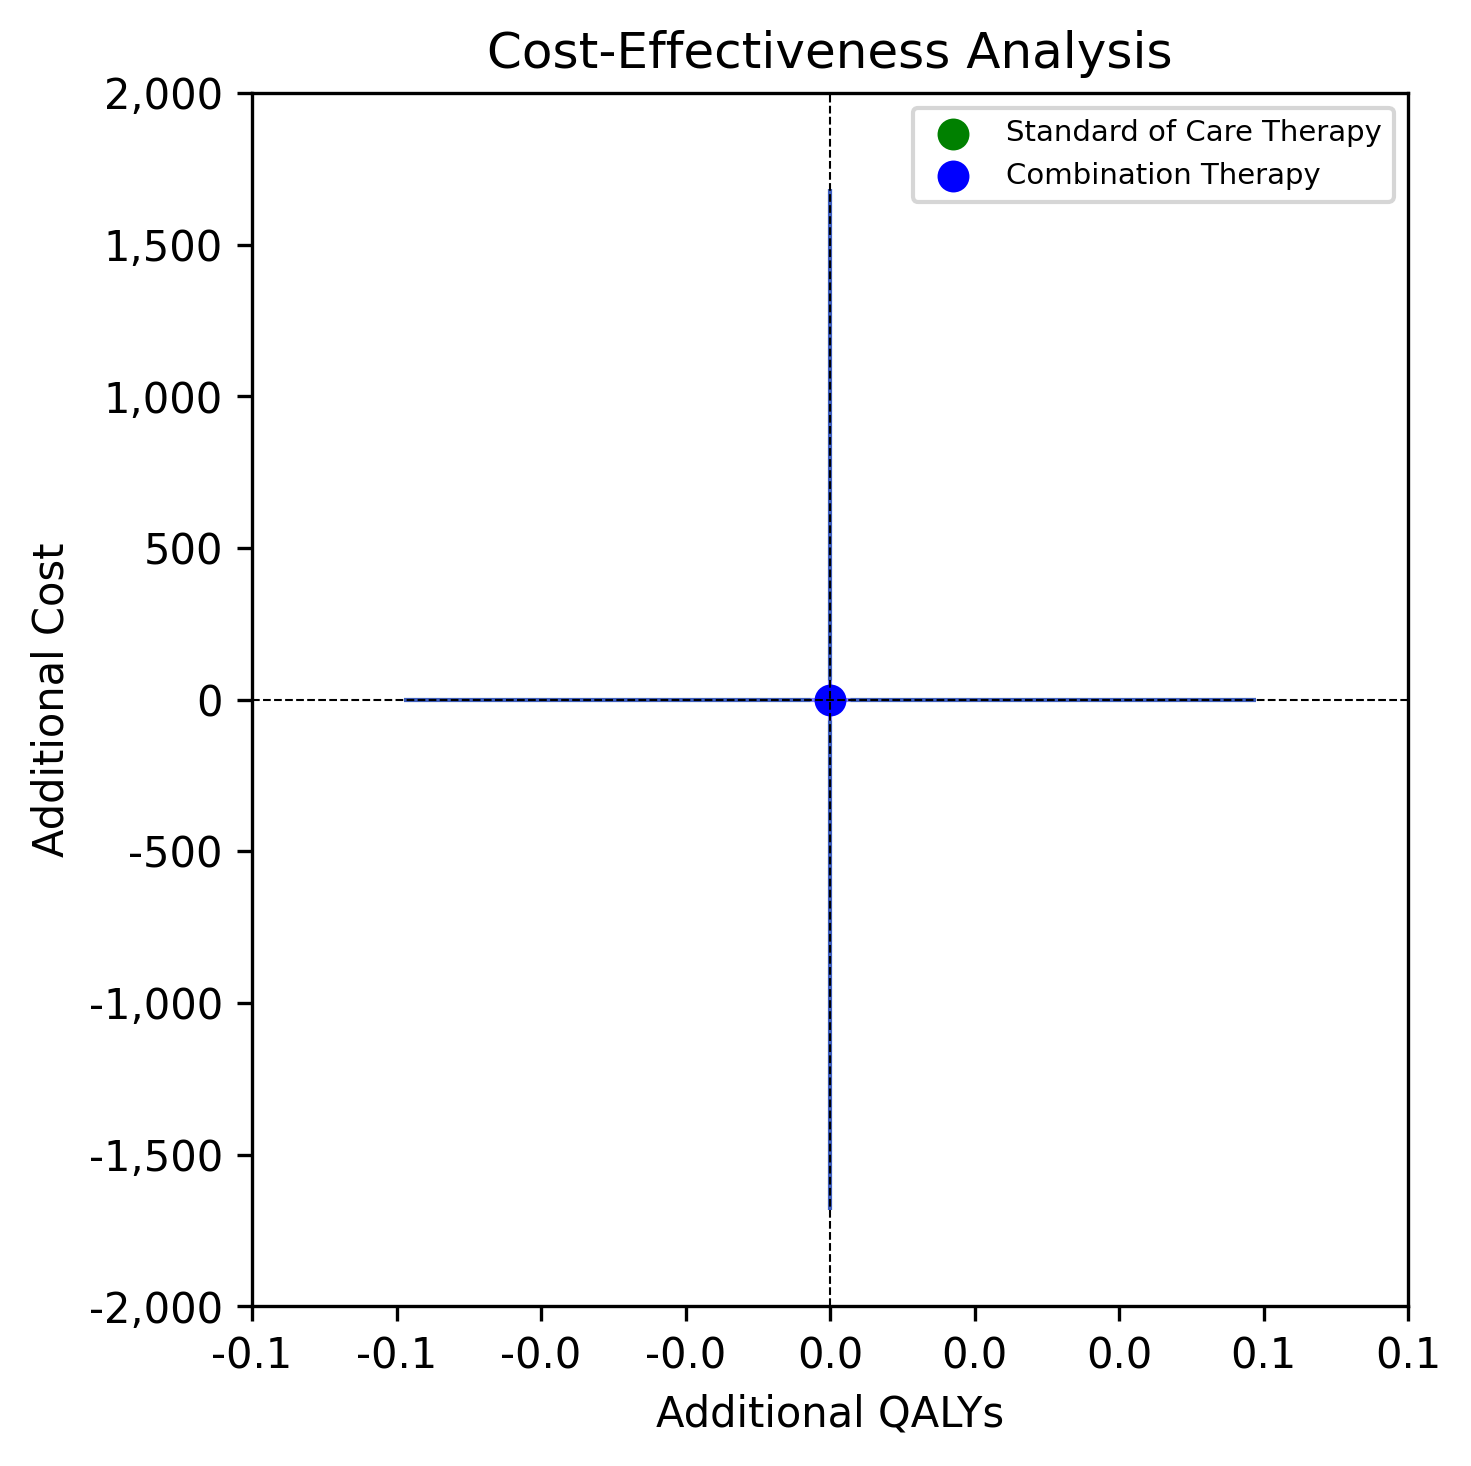
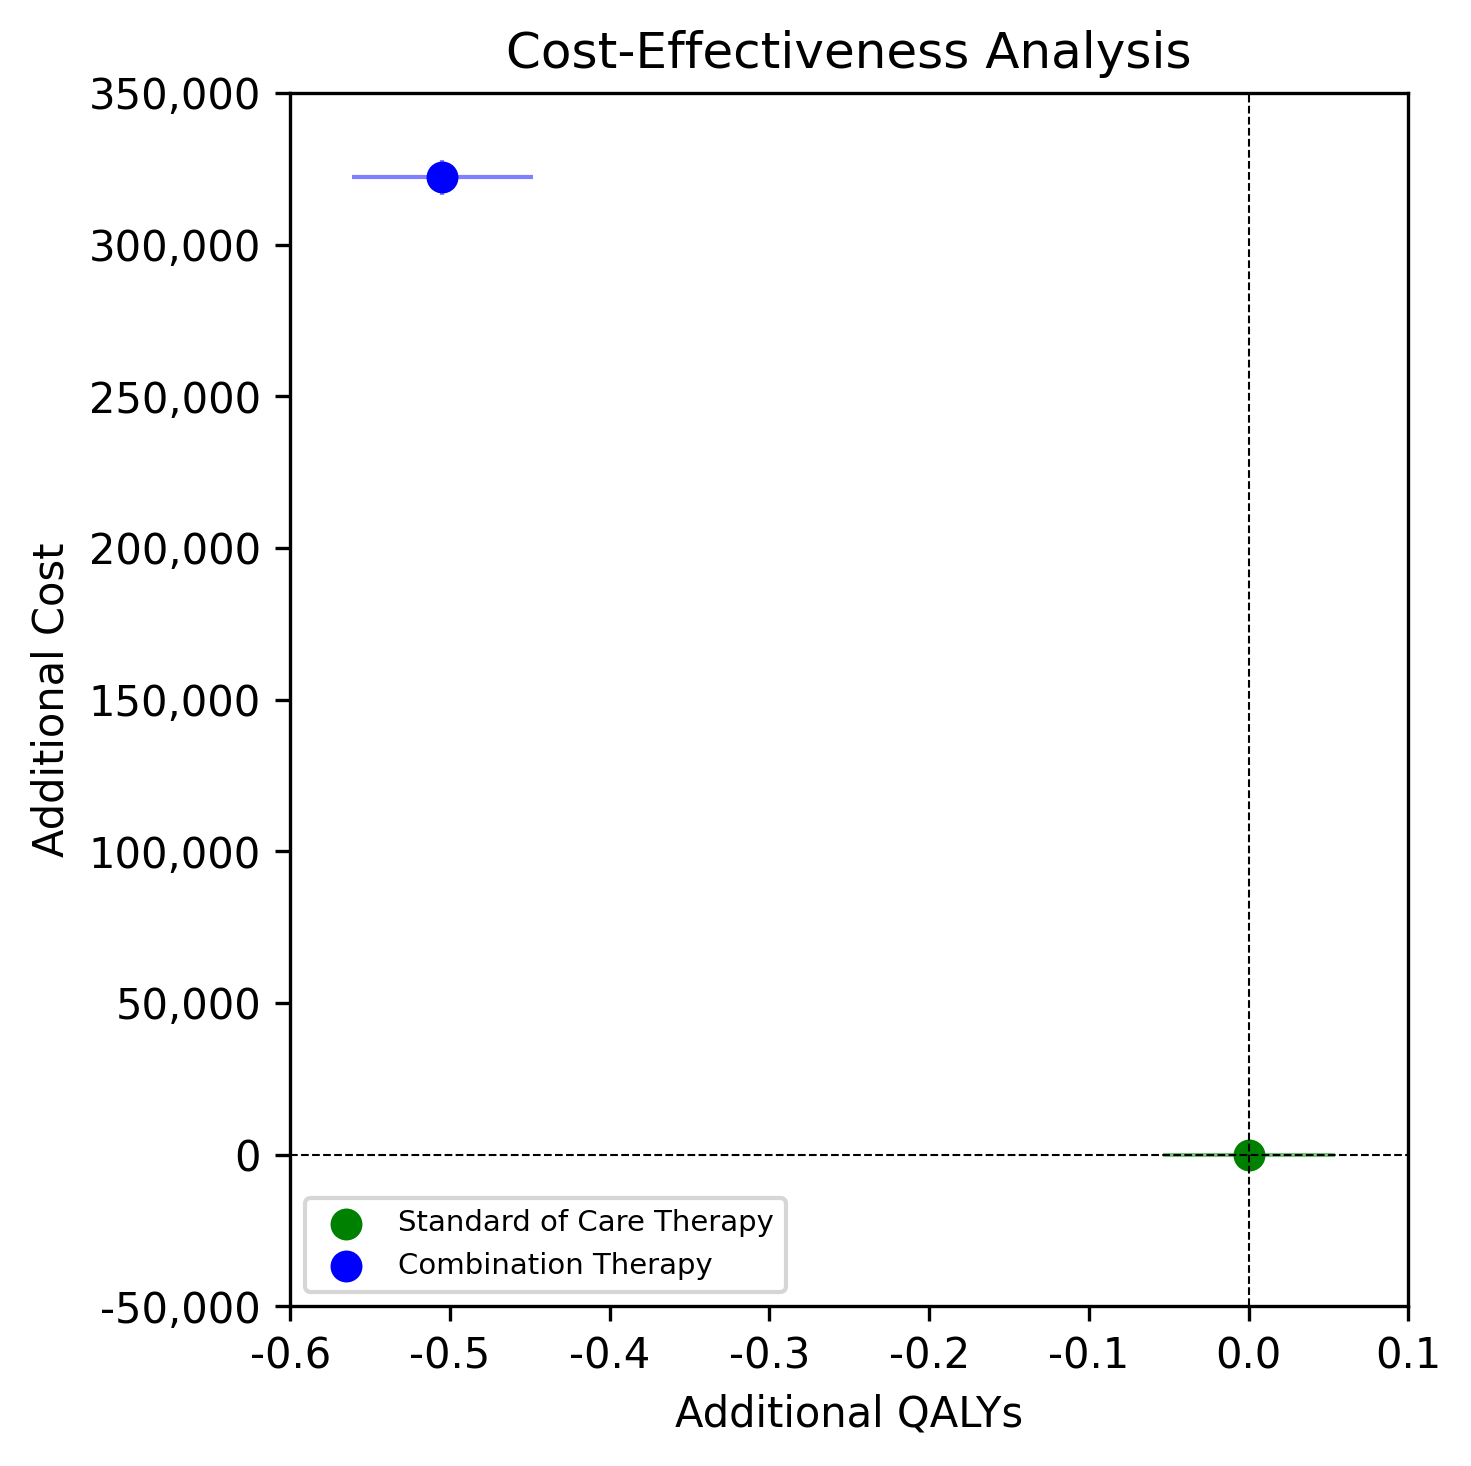
reverted to single cost for now

diff --git a/Support.py b/Support.py
@@ -94,7 +94,7 @@ def print_comparative_outcomes(sim_outcomes_soc, sim_outcomes_dmt):
     increase_survival_time = stat.DifferenceStatIndp(
         name='Increase in mean survival time',
         x=sim_outcomes_dmt.survivalTimes,
-        y_ref=sim_outcomes_.survivalTimes)
+        y_ref=sim_outcomes_soc.survivalTimes)
 
     # estimate and CI
     estimate_CI = increase_survival_time.get_formatted_mean_and_interval(
@@ -105,8 +105,8 @@ def print_comparative_outcomes(sim_outcomes_soc, sim_outcomes_dmt):
     # increase in mean discounted cost under combination therapy with respect to mono therapy
     increase_discounted_cost = stat.DifferenceStatIndp(
         name='Increase in mean discounted cost',
-        x=sim_outcomes_soc.costs,
-        y_ref=sim_outcomes_dmt.costs)
+        x=sim_outcomes_dmt.costs,
+        y_ref=sim_outcomes_soc.costs)
 
     # estimate and CI
     estimate_CI = increase_discounted_cost.get_formatted_mean_and_interval(
@@ -117,8 +117,8 @@ def print_comparative_outcomes(sim_outcomes_soc, sim_outcomes_dmt):
     # increase in mean discounted utility under combination therapy with respect to mono therapy
     increase_discounted_utility = stat.DifferenceStatIndp(
         name='Increase in mean discounted utility',
-        x=sim_outcomes_soc.utilities,
-        y_ref=sim_outcomes_dmt.utilities)
+        x=sim_outcomes_dmt.utilities,
+        y_ref=sim_outcomes_soc.utilities)
 
     # estimate and CI
     estimate_CI = increase_discounted_utility.get_formatted_mean_and_interval(
@@ -137,12 +137,12 @@ def report_CEA_CBA(sim_outcomes_soc, sim_outcomes_dmt):
     soc_therapy_strategy = econ.Strategy(
         name='Standard of Care Therapy',
         cost_obs=sim_outcomes_soc.costs,
-        effect_obs=sim_outcomes_dmt.utilities,
+        effect_obs=sim_outcomes_soc.utilities,
         color='green'
     )
     dmt_therapy_strategy = econ.Strategy(
         name='Combination Therapy',
-        cost_obs=sim_outcomes_soc.costs,
+        cost_obs=sim_outcomes_dmt.costs,
         effect_obs=sim_outcomes_dmt.utilities,
         color='blue'
     )

diff --git a/RunMarkovModel_DMT_PREDEM.py b/RunMarkovModel_DMT_PREDEM.py
@@ -7,11 +7,10 @@ from MarkovClasses import Cohort, MultiCohort
 import ParameterClasses as params
 
 therapy = params.Therapies.DMT_30
-k = 0
 # create a cohort
 myCohort1 = Cohort(id=1,
                    pop_size=D.POP_SIZE,
-                   parameters=params.Parameters(therapy=therapy, k=k))
+                   parameters=params.Parameters(therapy=therapy))
 
 # simulate the cohort over the specified time steps
 myCohort1.simulate(n_time_steps=D.SIM_TIME_STEPS)
@@ -46,7 +45,7 @@ print("Expected Disutility:", myCohort1.cohortOutcomes.statUtilities.get_mean())
 multiCohort1 = MultiCohort(
     ids=range(D.N_COHORTS),   # [0, 1, 2 ..., N_COHORTS-1]
     pop_sizes=[D.POP_SIZE]*D.N_COHORTS,
-    parameters=params.Parameters(therapy=therapy, k=k))# [COHORT_POP_SIZE, COHORT_POP_SIZE, ..., COHORT_POP_SIZE]
+    parameters=params.Parameters(therapy=therapy))# [COHORT_POP_SIZE, COHORT_POP_SIZE, ..., COHORT_POP_SIZE]
 
 
 

diff --git a/RunMarkovModel_nonDMT.py b/RunMarkovModel_nonDMT.py
@@ -6,11 +6,10 @@ import InputData as D
 from MarkovClasses import Cohort, MultiCohort
 
 therapy = param.Therapies.SOC
-k = 0
 # create a cohort
 myCohort = Cohort(id=1,
                   pop_size=D.POP_SIZE,
-                  parameters=param.Parameters(therapy=therapy, k=k))
+                  parameters=param.Parameters(therapy=therapy))
 
 # simulate the cohort over the specified time steps
 myCohort.simulate(n_time_steps=D.SIM_TIME_STEPS)
@@ -47,7 +46,7 @@ print("Expected Disutility:", myCohort.cohortOutcomes.statUtilities.get_mean())
 multiCohort = MultiCohort(
     ids=range(D.N_COHORTS),   # [0, 1, 2 ..., N_COHORTS-1]
     pop_sizes=[D.POP_SIZE]*D.N_COHORTS,
-    parameters=param.Parameters(therapy=therapy, k=k)# [COHORT_POP_SIZE, COHORT_POP_SIZE, ..., COHORT_POP_SIZE]
+    parameters=param.Parameters(therapy=therapy)# [COHORT_POP_SIZE, COHORT_POP_SIZE, ..., COHORT_POP_SIZE]
 )
 
 # simulate all cohorts

diff --git a/CompareAlternatives.py b/CompareAlternatives.py
@@ -4,12 +4,12 @@ import ParameterClasses as param
 import Support as support
 
 
-k = 0
+
 # simulating mono therapy
 # create a cohort
 cohort_SOC = model.Cohort(id=0,
                            pop_size=data.POP_SIZE,
-                           parameters=param.Parameters(therapy=param.Therapies.SOC, k=k ))
+                           parameters=param.Parameters(therapy=param.Therapies.SOC))
 # simulate the cohort
 cohort_SOC.simulate(n_time_steps=data.SIM_TIME_STEPS)
 
@@ -17,7 +17,7 @@ cohort_SOC.simulate(n_time_steps=data.SIM_TIME_STEPS)
 # create a cohort
 cohort_DMT30 = model.Cohort(id=1,
                             pop_size=data.POP_SIZE,
-                            parameters=param.Parameters(therapy=param.Therapies.DMT_30, k=k))
+                            parameters=param.Parameters(therapy=param.Therapies.DMT_30))
 # simulate the cohort
 cohort_DMT30.simulate(n_time_steps=data.SIM_TIME_STEPS)
 

diff --git a/ParameterClasses.py b/ParameterClasses.py
@@ -7,21 +7,17 @@ class Therapies(Enum):
     DMT_30 = 1
 
 class Parameters:
-    def __init__(self, therapy, k):
+    def __init__(self, therapy):
 
         # selected therapy
         self.therapy = therapy
-        self.cycle = k
 
         # initial health state
         self.initialHealthState = data.HealthStates.PREDEM
 
         # annual treatment cost
         if self.therapy == Therapies.DMT_30:
-            if self.cycle <= 2:
-                self.annualTreatmentCost = data.DMT30_COST_year1
-            else:
-                self.annualTreatmentCost = data.DMT30_COST_year2onwards
+            self.annualTreatmentCost = data.DMT30_COST
         else:
              self.annualTreatmentCost = data.SOC_COST # find SOC cost
 

diff --git a/InputData.py b/InputData.py
@@ -20,8 +20,8 @@ STATE_DISUTILITY = [-0.17,
                     -0.66,
                     0]
 
-DMT30_COST_year1 = 47488/2
-DMT30_COST_year2onwards = 59360/2
+DMT30_COST = 56000/2
+# DMT30_COST_year2onwards = 59360/2
 SOC_COST = 2040/2
 
 class HealthStates(Enum):
